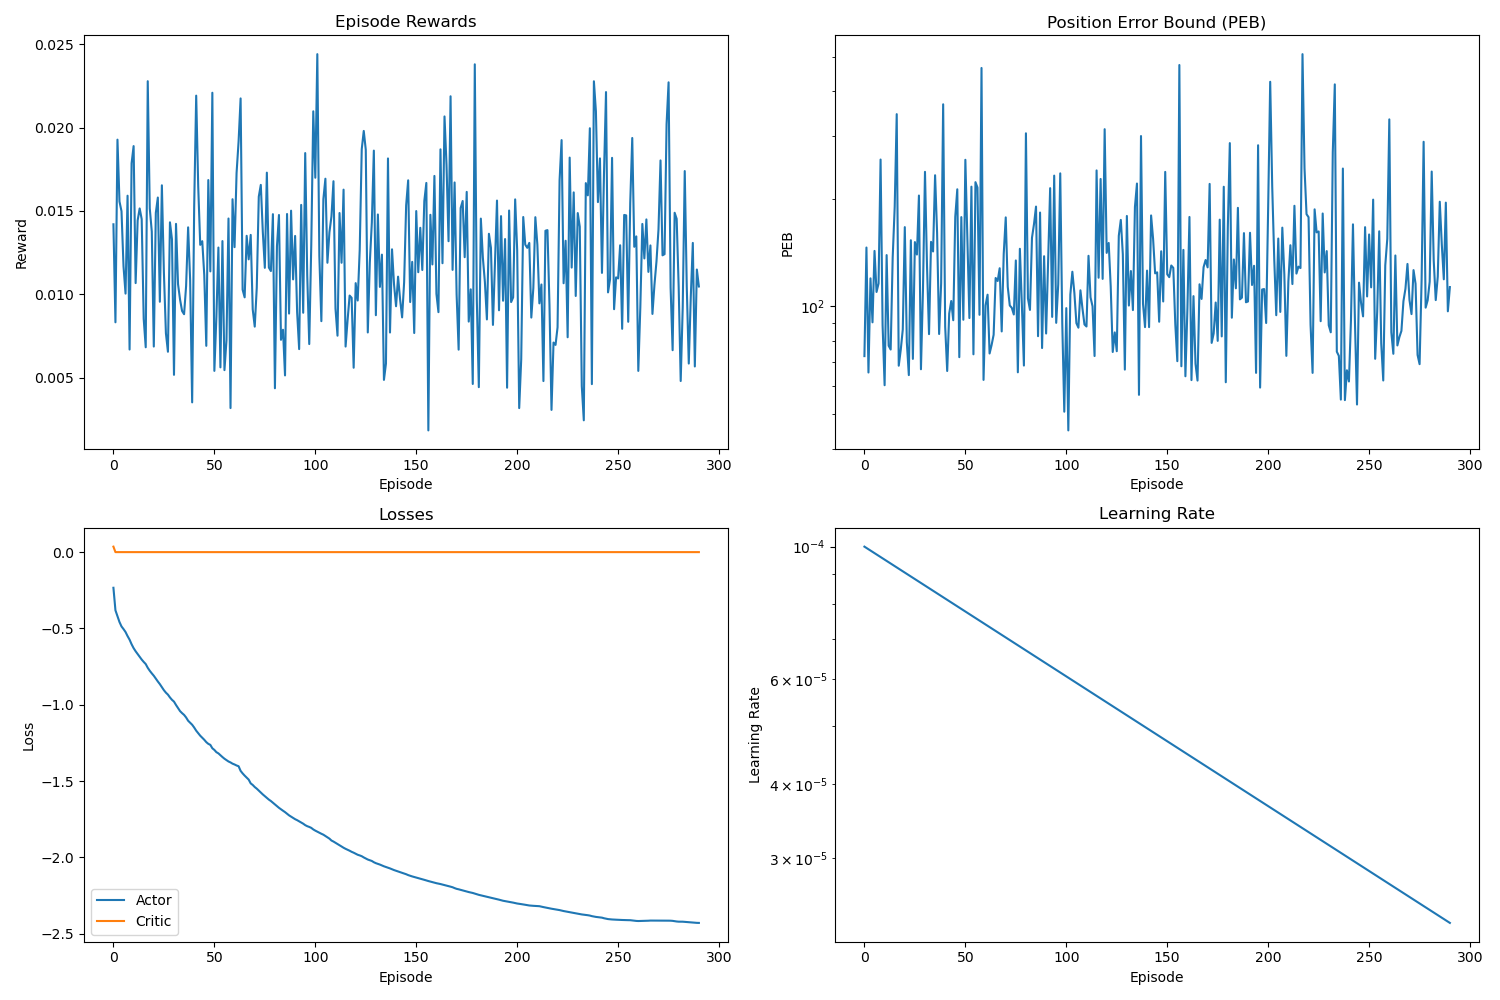
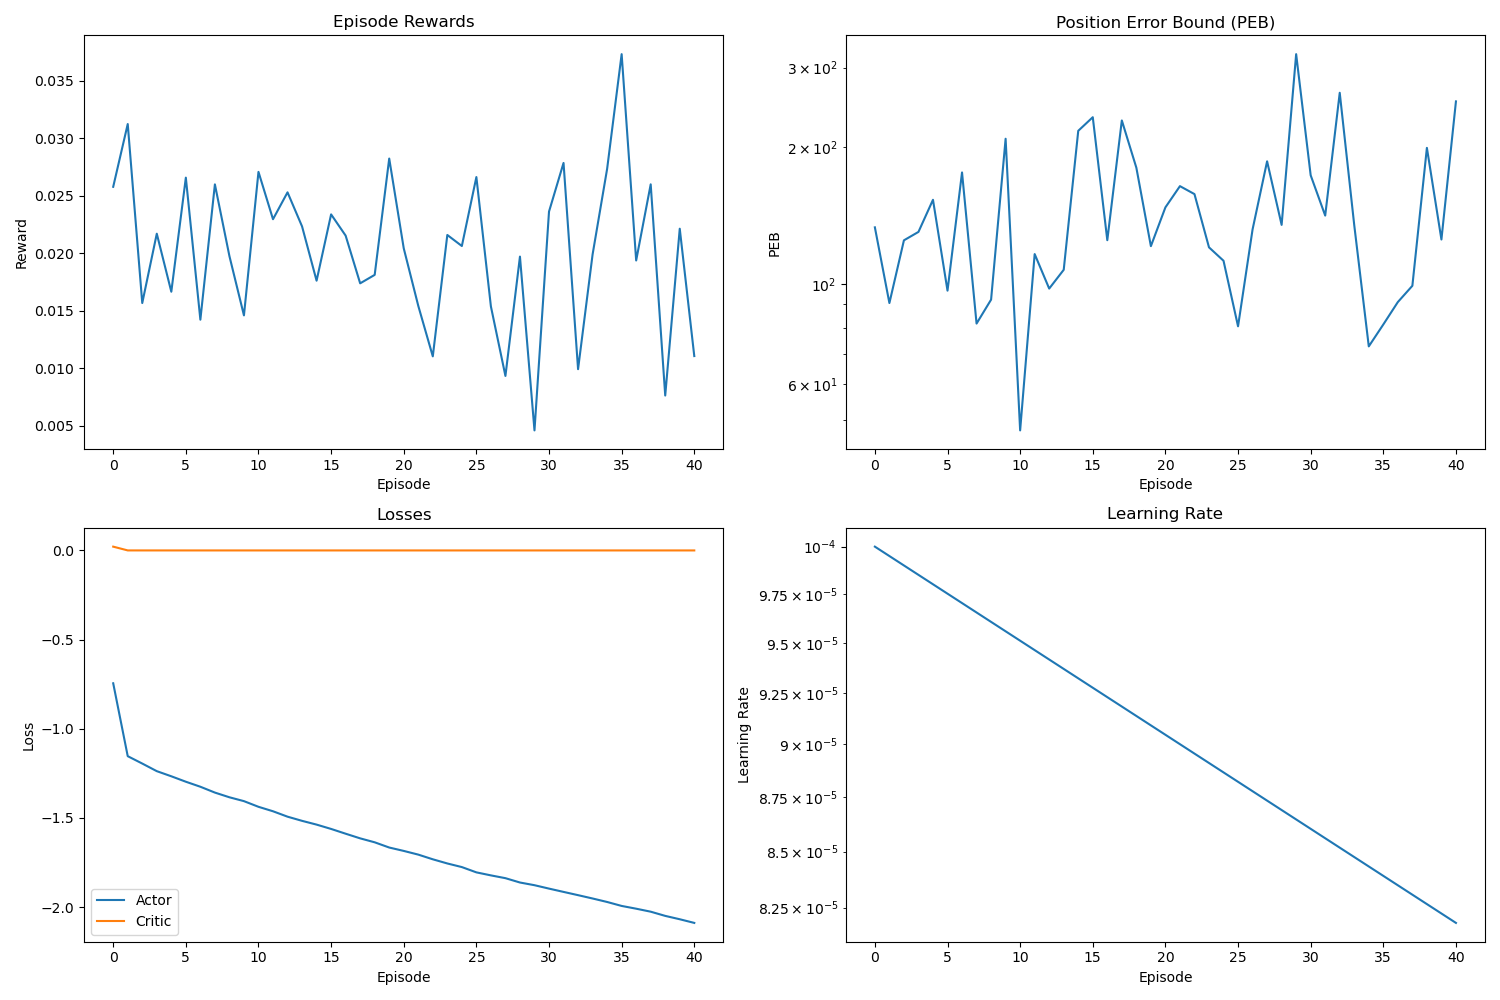
star ris integration midway

diff --git a/RISISAC_V2X_Sim.m b/RISISAC_V2X_Sim.m
@@ -48,6 +48,10 @@ classdef RISISAC_V2X_Sim < handle
         destination;
         time = 0;
         arrival_threshold = 10
+        car_orientation = 0
+        current_speed = 0
+        integral_error = 0
+        prev_error = 0
 
         minpeb = 10000;
         peb = 0;
@@ -359,31 +363,121 @@ classdef RISISAC_V2X_Sim < handle
             state = state(:)';
         end
 
+        % function [next_state, reward, peb, rate, power, done] = step(obj, action)
+        %     ris_phases = action(1:obj.Nr);
+        %     obj.phi = diag(exp(1j * 2 * pi * ris_phases));
+
+        %     [peb] = obj.calculatePerformanceMetrics();
+        %     rate = getrate(obj);
+        %     power = getpower(obj);
+        %     reward = obj.computeReward(peb);
+        %     reward = sqrt((real(reward)^2) - (imag(reward)^2));
+
+        %     direction = (obj.destination - obj.car_loc) / norm(obj.destination - obj.car_loc);
+        %     obj.car_loc = obj.car_loc + direction * obj.speed * obj.dt;
+        %     obj.time = obj.time + obj.dt;
+            
+        %     obj.target_loc = obj.car_loc;
+        %     obj.stepCount = obj.stepCount + 1;
+            
+            
+        %     destination_reached = norm(obj.car_loc - obj.destination) < obj.arrival_threshold;
+        %     out_of_bounds = checkOutOfBounds(obj);
+        %     timeout = obj.stepCount >= obj.maxSteps;
+        %     done = destination_reached || out_of_bounds || timeout;
+            
+        %     next_state = getState(obj);
+        % end
+
         function [next_state, reward, peb, rate, power, done] = step(obj, action)
+            % Update RIS Phases (Same as Before)
             ris_phases = action(1:obj.Nr);
             obj.phi = diag(exp(1j * 2 * pi * ris_phases));
 
-            [peb] = obj.calculatePerformanceMetrics();
+            % Compute Performance Metrics (Same as Before)
+            peb = obj.calculatePerformanceMetrics();
             rate = getrate(obj);
             power = getpower(obj);
             reward = obj.computeReward(peb);
-            reward = sqrt((real(reward)^2) - (imag(reward)^2));
+            reward = sqrt((real(reward)^2) - (imag(reward)^2)); 
 
+            % ---- Vehicle Motion with PID Steering ----
+            
+            % Define motion parameters
+            max_speed = 30;  % Max speed (m/s)
+            max_acceleration = 2;  % Max acceleration (m/s^2)
+            max_turning_angle = pi/6;  % Max turn angle (30 degrees)
+            
+            % Compute desired direction (normalized)
             direction = (obj.destination - obj.car_loc) / norm(obj.destination - obj.car_loc);
-            obj.car_loc = obj.car_loc + direction * obj.speed * obj.dt;
-            obj.time = obj.time + obj.dt;
             
+            % Compute the desired angle for the car
+            desired_angle = atan2(direction(2), direction(1));  
+            current_angle = obj.car_orientation;  % Car's current orientation angle
+            
+            % Compute error for PID control
+            angle_error = desired_angle - current_angle;
+            
+            % PID Controller Parameters (Tunable)
+            Kp = 0.5;  % Proportional gain
+            Ki = 0.01; % Integral gain (optional)
+            Kd = 0.1;  % Derivative gain
+            
+            % Compute PID terms
+            obj.integral_error = obj.integral_error + angle_error * obj.dt;  % Accumulate integral term
+            derivative_error = (angle_error - obj.prev_error) / obj.dt;  % Compute derivative term
+            
+            % Compute Steering Correction using PID
+            steering_angle = Kp * angle_error + Ki * obj.integral_error + Kd * derivative_error;
+            
+            % Limit the turning angle
+            steering_angle = max(-max_turning_angle, min(max_turning_angle, steering_angle));
+
+            % Update the car’s orientation
+            obj.car_orientation = obj.car_orientation + steering_angle;
+
+            % Store previous error for next derivative calculation
+            obj.prev_error = angle_error;
+
+            % Compute acceleration (simple model: accelerate if too slow, decelerate if too fast)
+            target_speed = obj.speed; % Desired speed
+            speed_diff = target_speed - obj.current_speed;
+            acceleration = max(-max_acceleration, min(max_acceleration, speed_diff / obj.dt));
+            
+            % Update speed (limit by max speed)
+            obj.current_speed = max(0, min(max_speed, obj.current_speed + acceleration * obj.dt));
+
+            % Compute new position based on updated speed and orientation
+            obj.car_loc = obj.car_loc + [cos(obj.car_orientation), sin(obj.car_orientation), 0] * obj.current_speed * obj.dt;
             obj.target_loc = obj.car_loc;
+
+            % Update time
+            obj.time = obj.time + obj.dt;
             obj.stepCount = obj.stepCount + 1;
-            
-            
+
+            % ---- Check Termination Conditions ----
             destination_reached = norm(obj.car_loc - obj.destination) < obj.arrival_threshold;
-            out_of_bounds = checkOutOfBounds(obj);
+            
+            % Check if car is out of bounds (within env_dims)
+            out_of_bounds = (obj.car_loc(1) < 0 || obj.car_loc(1) > obj.env_dims(1) || ...
+                            obj.car_loc(2) < 0 || obj.car_loc(2) > obj.env_dims(2));
+
             timeout = obj.stepCount >= obj.maxSteps;
             done = destination_reached || out_of_bounds || timeout;
-            
+
+            % Reset if out of bounds
+            if out_of_bounds
+                obj.car_loc = obj.target_loc; % Reset position
+                obj.car_orientation = 0; % Reset orientation
+                obj.current_speed = 0; % Stop car
+                obj.integral_error = 0; % Reset PID integral term
+                obj.prev_error = 0; % Reset PID previous error
+            end
+
+            % Get next state
             next_state = getState(obj);
         end
+        
 
         function out_of_bounds = checkOutOfBounds(obj)
             if obj.car_loc(1) > 1000 || obj.car_loc(2) > 1000
@@ -394,13 +488,13 @@ classdef RISISAC_V2X_Sim < handle
         end
 
         function reward = computeReward(obj, peb)
-            Q = 0.5;
+            % Q = 0.5;
             constraints_satisfied = (obj.rate >= obj.R_min);
 
-            base_reward = 1/peb;
+            base_reward = 1 / (1 + peb);  % Keeps reward bounded [0,1]
             
             if ~constraints_satisfied
-                reward = base_reward * Q;
+                reward = base_reward * (0.5 + 0.5 * (obj.rate / obj.R_min)); 
             else
                 reward = base_reward;
             end
@@ -458,25 +552,63 @@ classdef RISISAC_V2X_Sim < handle
         end
 
 
-        function [L1, L2, L3, L_proj1, L_proj2, L_proj3, delays, angles] = computeGeometricParameters(obj)
+        % function [L1, L2, L3, L_proj1, L_proj2, L_proj3, delays, angles] = computeGeometricParameters(obj)
+        %     % Extract coordinates
+        %     xb = obj.bs_loc(1);    yb = obj.bs_loc(2);    zb = obj.bs_loc(3);
+        %     xr = obj.ris_loc(1);   yr = obj.ris_loc(2);   zr = obj.ris_loc(3);
+        %     xt = obj.target_loc(1); yt = obj.target_loc(2); zt = obj.target_loc(3);
+            
+        %     % Calculate 3D Euclidean distances
+        %     L1 = sqrt((xb - xr)^2 + (yb - yr)^2 + (zb - zr)^2);
+        %     L2 = sqrt((xr - xt)^2 + (yr - yt)^2 + zr^2);
+        %     L3 = sqrt((xb - xt)^2 + (yb - yt)^2 + zb^2);
+            
+        %     % Calculate 2D (X-Y plane) projections
+        %     L_proj1 = sqrt((xb - xr)^2 + (yb - yr)^2);
+        %     L_proj2 = sqrt((xr - xt)^2 + (yr - yt)^2);
+        %     L_proj3 = sqrt((xb - xt)^2 + (yb - yt)^2);
+            
+        %     delays.line_of_sight = L3 / obj.c;
+        %     delays.non_line_of_sight = (L1 + L2) / obj.c;
+            
+        %     angles.bs_to_ris.azimuth = asin((zb - zr) / L1);
+        %     angles.bs_to_ris.elevation_azimuth = asin((xb - xr) / L_proj1);
+        %     angles.bs_to_ris.elevation_angle = acos((zb - zr) / L1);
+            
+        %     angles.ris_to_target.aoa = asin(zr / L2);
+        %     angles.ris_to_target.azimuth = acos((yr - yt) / L_proj2);
+        %     angles.ris_to_target.elevation_angle = acos(zr / L2);
+
+        %     angles.bs_to_target_transmit = acos(zb/L3);
+        %     angles.bs_to_target_receive = asin(zb/L3);
+        % end
+
+        function [L1, L2, L3, L1_t, L2_t, L_proj1, L_proj2, L_proj3, delays, angles] = computeGeometricParameters(obj)
             % Extract coordinates
             xb = obj.bs_loc(1);    yb = obj.bs_loc(2);    zb = obj.bs_loc(3);
             xr = obj.ris_loc(1);   yr = obj.ris_loc(2);   zr = obj.ris_loc(3);
             xt = obj.target_loc(1); yt = obj.target_loc(2); zt = obj.target_loc(3);
             
-            % Calculate 3D Euclidean distances
+            % Reflection path
             L1 = sqrt((xb - xr)^2 + (yb - yr)^2 + (zb - zr)^2);
             L2 = sqrt((xr - xt)^2 + (yr - yt)^2 + zr^2);
             L3 = sqrt((xb - xt)^2 + (yb - yt)^2 + zb^2);
-            
+        
+            % Transmission path
+            L1_t = sqrt((xb - xr)^2 + (yb - yr)^2 + (zb - zr)^2);
+            L2_t = sqrt((xr - xt)^2 + (yr - yt)^2 + (zr - zt)^2);  % Different due to transmission
+
             % Calculate 2D (X-Y plane) projections
             L_proj1 = sqrt((xb - xr)^2 + (yb - yr)^2);
             L_proj2 = sqrt((xr - xt)^2 + (yr - yt)^2);
             L_proj3 = sqrt((xb - xt)^2 + (yb - yt)^2);
-            
+        
+            % Calculate delays
             delays.line_of_sight = L3 / obj.c;
             delays.non_line_of_sight = (L1 + L2) / obj.c;
-            
+            delays.transmitted = (L1_t + L2_t) / obj.c;
+        
+            % Angles (Reflection)
             angles.bs_to_ris.azimuth = asin((zb - zr) / L1);
             angles.bs_to_ris.elevation_azimuth = asin((xb - xr) / L_proj1);
             angles.bs_to_ris.elevation_angle = acos((zb - zr) / L1);
@@ -484,10 +616,13 @@ classdef RISISAC_V2X_Sim < handle
             angles.ris_to_target.aoa = asin(zr / L2);
             angles.ris_to_target.azimuth = acos((yr - yt) / L_proj2);
             angles.ris_to_target.elevation_angle = acos(zr / L2);
-
-            angles.bs_to_target_transmit = acos(zb/L3);
-            angles.bs_to_target_receive = asin(zb/L3);
+        
+            % Angles (Transmission)
+            angles.bs_to_star_ris = angles.bs_to_ris;  % Same as reflection
+            angles.star_ris_to_target.aoa = asin((zr - zt) / L2_t);
+            angles.star_ris_to_target.elevation_angle = acos((zr - zt) / L2_t);
         end
+        
 
         function [peb] = calculatePerformanceMetrics(obj)
             [J, ~, ~] = computeFisherInformationMatrix(obj);

diff --git a/tfddpg.py b/tfddpg.py
@@ -87,5 +87,53 @@ class ActorNetwork(keras.model):
         
         mu = self.mu(prob)
         
+        return mu
+    
+from tensorflow.keras.optimizers import Adam
+
+class Agent:
+    def __init__(self, input_dims, alpha=0.001, beta=0.002, env = None,
+                 gamma=0.99, n_actions=2, max_size=1000000, tau=0.005,
+                 fc1_dims=400, fc2_dims=300, batch_size=64, noise=0.1):
+        self.gamma = gamma
+        self.tau = tau
+        self.batch_size = batch_size
+        self.memory = ReplayBuffer(max_size, input_dims, n_actions)
+        self.noise = noise
+        self.max_action = env.action_space.high[0]
+        self.min_action = env.action_space.low[0]
+        
+        self.actor = ActorNetwork(n_actions=n_actions, name='actor')
+        self.critic = CriticNetwork(n_actions = n_actions, name='critic')
+        
+        self.target_actor = ActorNetwork(n_actions=n_actions, name='target_actor')
+        self.target_critic = CriticNetwork(n_actions=n_actions, name='target_critic')
+        
+        self.actor.compile(optimizer=Adam(learning_rate=alpha))
+        self.critic.compile(optimizer=Adam(learning_rate=beta))
+        self.target_actor.compile(optimizer=Adam(learning_rate=alpha))
+        self.target_critic.compile(optimizer=Adam(learning_rate=beta))
+        
+        self.update_network_parameters(tau=1)
+        
+    def update_network_parameters(self, tau=None):
+        if tau is None:
+            tau = self.tau
+        
+        weights = []
+        targets = self.target_actor.weights
+        for i, weight in enumerate(self.actor.weights):
+            weights.append(weight * tau + targets[i]*(1-tau))
+        self.target_actor.set_weights(weights)
+        
+        weights = []
+        targets = self.target_critic.weights
+        for i, weight in enumerate(self.critic.weights):
+            weights.append(weight * tau + targets[i]*(1-tau))
+        self.target_critic.set_weights(weights)
+        
+        def remember(self, state, action, reward, new_state, done):
+            self.memory.store_transition(state, action, reward, new_state, done)
+    
         
         

diff --git a/train_ris_isac.py b/train_ris_isac.py
@@ -125,9 +125,11 @@ class RISISACTrainer:
     def train(self, num_episodes, max_steps, target_peb):
         print("Starting training...")
         Nb = self.eng.get_Nb(self.sim)
+        
         epsilon_start = 1.0
         epsilon_en = 0.01
         epsilon_decay_rate = 0.995
+        
         peb_ae = [[] for _ in range(300)]
         prev_peb = 12
         avg_rate = []
@@ -151,11 +153,13 @@ class RISISACTrainer:
             step_counter = 0
             
             for step in range(max_steps):
+
                 value = np.random.uniform(0,1)
                 if (value < epsilon_start):
                     explore = True
                 else:
                     explore = False
+
                 step_counter = step_counter + 1
                 # Select action with exploration
                 action = self.agent.select_action(state, explore, epsilon_start)
